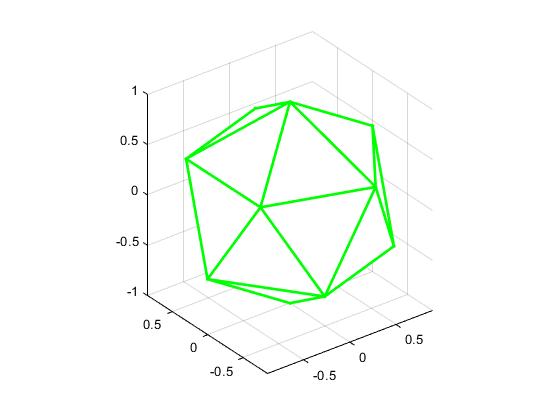
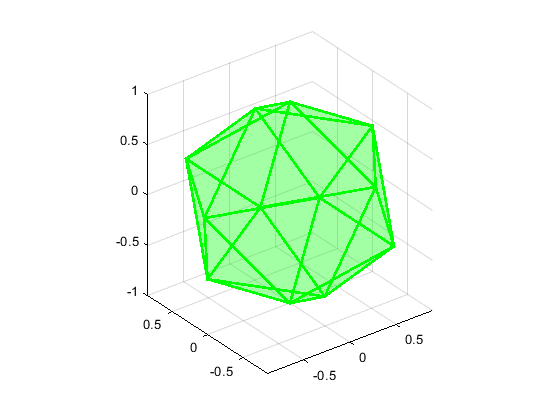
+ FaceAlpha

diff --git a/html/doc.html b/html/doc.html
@@ -6,7 +6,7 @@
    <!--
 This HTML was auto-generated from MATLAB code.
 To make changes, update the MATLAB code and republish this document.
-      --><title>geoid</title><meta name="generator" content="MATLAB 9.7"><link rel="schema.DC" href="http://purl.org/dc/elements/1.1/"><meta name="DC.date" content="2021-01-28"><meta name="DC.source" content="doc.m"><style type="text/css">
+      --><title>geoid</title><meta name="generator" content="MATLAB 9.7"><link rel="schema.DC" href="http://purl.org/dc/elements/1.1/"><meta name="DC.date" content="2024-04-09"><meta name="DC.source" content="doc.m"><style type="text/css">
 html,body,div,span,applet,object,iframe,h1,h2,h3,h4,h5,h6,p,blockquote,pre,a,abbr,acronym,address,big,cite,code,del,dfn,em,font,img,ins,kbd,q,s,samp,small,strike,strong,sub,sup,tt,var,b,u,i,center,dl,dt,dd,ol,ul,li,fieldset,form,label,legend,table,caption,tbody,tfoot,thead,tr,th,td{margin:0;padding:0;border:0;outline:0;font-size:100%;vertical-align:baseline;background:transparent}body{line-height:1}ol,ul{list-style:none}blockquote,q{quotes:none}blockquote:before,blockquote:after,q:before,q:after{content:'';content:none}:focus{outine:0}ins{text-decoration:none}del{text-decoration:line-through}table{border-collapse:collapse;border-spacing:0}
 
 html { min-height:100%; margin-bottom:1px; }
@@ -66,7 +66,7 @@ table td { padding:7px 5px; text-align:left; vertical-align:top; border:1px soli
 
 
 
-  </style></head><body><div class="content"><h1>geoid</h1><!--introduction--><p>Function to generate a n-level geoid shape, defined by its vertices set and the corresponding triangulation. Vertices belong to the unit sphere.</p><p>Algorithm principle is based on sampling the 20 icosahedron triangles.</p><p>Author &amp; support : nicolas.douillet (at) free.fr, 2017-2021.</p><!--/introduction--><h2>Contents</h2><div><ul><li><a href="#1">Syntax</a></li><li><a href="#2">Description</a></li><li><a href="#3">See also</a></li><li><a href="#4">Input arguments</a></li><li><a href="#5">Output arguments</a></li><li><a href="#6">Example #1</a></li><li><a href="#7">Example #2</a></li></ul></div><h2 id="1">Syntax</h2><p>[V, T] = geoid(n)</p><p>[V, T] = geoid(n, option_display)</p><h2 id="2">Description</h2><p>[V, T] = geoid(n) computes n-level geoid vertices coordinates V and its corresponding triangulation T.</p><p>[V, T] = geoid(n, option_display) display the resulting geoid if the boolean option_display is either logical or numeric true.</p><h2 id="3">See also</h2><p><a href="https://fr.mathworks.com/matlabcentral/fileexchange/64284-sphere-homeomorphic-surface-quasi-isotropic-sampling?s_tid=prof_contriblnk">sphere_homeo_sfc_isotropic_splg</a> | <a href="https://fr.mathworks.com/help/matlab/ref/sphere.html?s_tid=srchtitle">sphere</a> | <a href="https://fr.mathworks.com/matlabcentral/fileexchange/64395-sample_triangle?s_tid=prof_contriblnk">sample_triangle</a></p><h2 id="4">Input arguments</h2><p>- n : positive integer scalar double (n &gt; 0), the level which corresponds to the       number of steps to sample the initial triangles in.</p><p>- option_display : logical *true (1) / false (0).</p><h2 id="5">Output arguments</h2><pre>      [ |  |  |]
+  </style></head><body><div class="content"><h1>geoid</h1><!--introduction--><p>Function to generate a n-level geoid shape, defined by its vertices set and the corresponding triangulation. Vertices belong to the unit sphere.</p><p>Algorithm principle is based on sampling the 20 icosahedron triangles.</p><p>Author : nicolas.douillet (at) free.fr, 2017-2024.</p><!--/introduction--><h2>Contents</h2><div><ul><li><a href="#1">Syntax</a></li><li><a href="#2">Description</a></li><li><a href="#3">See also</a></li><li><a href="#4">Input arguments</a></li><li><a href="#5">Output arguments</a></li><li><a href="#6">Example #1</a></li><li><a href="#7">Example #2</a></li></ul></div><h2 id="1">Syntax</h2><p>[V, T] = geoid(n)</p><p>[V, T] = geoid(n, option_display)</p><h2 id="2">Description</h2><p>[V, T] = geoid(n) computes n-level geoid vertices coordinates V and its corresponding triangulation T.</p><p>[V, T] = geoid(n, option_display) display the resulting geoid if the boolean option_display is either logical or numeric true.</p><h2 id="3">See also</h2><p><a href="https://fr.mathworks.com/matlabcentral/fileexchange/77446-platonic-solids?s_tid=prof_contriblnk">platonic_solids</a> | <a href="https://fr.mathworks.com/matlabcentral/fileexchange/65574-tetrahedron-circumsphere?s_tid=prof_contriblnk">tetrahedron_circumsphere</a> | <a href="https://fr.mathworks.com/matlabcentral/fileexchange/121133-tetrahedron-insphere?s_tid=prof_contriblnk">tetrahedron_insphere</a> | <a href="https://fr.mathworks.com/matlabcentral/fileexchange/64395-sample-triangle-2d-3d-nd?s_tid=ta_fx_results">sample_triangle</a></p><h2 id="4">Input arguments</h2><p>- n : positive integer scalar double (n &gt; 0), the level which corresponds to the       number of steps to sample the initial triangles in.</p><p>- option_display : logical *true (1) / false (0).</p><h2 id="5">Output arguments</h2><pre>      [ |  |  |]
 - V = [Vx Vy Vz], real matrix double, the geoid vertices X, Y, Z coordinates. Size(V) = [nb_vertices,3], with nb_vertices &lt; (20*(n+1)*(n+2)/2.
       [ |  |  |]</pre><pre>      [ |  |  |]
 - T = [i0 i1 i2], positive integer matrix double, the triangulation. Size(T) = [nb_triangles,3], with nb_triangles &lt; 20*n^2.
@@ -85,7 +85,7 @@ option_display = true;
 %
 % Algorithm principle is based on sampling the 20 icosahedron triangles.
 %
-% Author & support : nicolas.douillet (at) free.fr, 2017-2021.
+% Author : nicolas.douillet (at) free.fr, 2017-2024.
 %
 %% Syntax
 % [V, T] = geoid(n)
@@ -101,9 +101,10 @@ option_display = true;
 %
 %% See also 
 %
-% <https://fr.mathworks.com/matlabcentral/fileexchange/64284-sphere-homeomorphic-surface-quasi-isotropic-sampling?s_tid=prof_contriblnk sphere_homeo_sfc_isotropic_splg> |
-% <https://fr.mathworks.com/help/matlab/ref/sphere.html?s_tid=srchtitle sphere> |
-% <https://fr.mathworks.com/matlabcentral/fileexchange/64395-sample_triangle?s_tid=prof_contriblnk sample_triangle>
+% <https://fr.mathworks.com/matlabcentral/fileexchange/77446-platonic-solids?s_tid=prof_contriblnk platonic_solids> |
+% <https://fr.mathworks.com/matlabcentral/fileexchange/65574-tetrahedron-circumsphere?s_tid=prof_contriblnk tetrahedron_circumsphere> |
+% <https://fr.mathworks.com/matlabcentral/fileexchange/121133-tetrahedron-insphere?s_tid=prof_contriblnk tetrahedron_insphere> |
+% <https://fr.mathworks.com/matlabcentral/fileexchange/64395-sample-triangle-2d-3d-nd?s_tid=ta_fx_results sample_triangle>
 %
 %% Input arguments
 %

diff --git a/geoid.m b/geoid.m
@@ -1,9 +1,9 @@
 function [V, T] = geoid(n, option_display)
-%% geoid : function to generate a n-level geoid shape, defined by its
+% geoid : function to generate a n-level geoid shape, defined by its
 % vertices set and the corresponding triangulation. Vertices belong to the unit sphere.
 % Algorithm principle is based on sampling the 20 triangles of the icosahedron.
 %
-% Author & support : nicolas.douillet (at) free.fr, 2017-2021.
+% Author : nicolas.douillet (at) free.fr, 2017-2024.
 %
 %
 % Syntax
@@ -57,7 +57,7 @@ function [V, T] = geoid(n, option_display)
 % [V, T] = geoid(n, option_display);
 
 
-%% Input parsing
+% Input parsing
 if nargin < 2
     option_display = true;
 end
@@ -67,7 +67,7 @@ assert(nargin < 3,'Error : too many input arguments.');
 assert(isreal(n) && n >= 1 && rem(n,1) == 0,'Error : level must be a stricly positive integer.');
 
 
-%% Body
+% Body
 % Step I : build icosahedron
 Rho = 1;
 phi_n = 0.5*(1+sqrt(5));
@@ -193,9 +193,9 @@ if option_display
     figure;
     set(gcf, 'Color', [0 0 0]);
     TRI = triangulation(T, V(:,1), V(:,2), V(:,3));
-    t = trimesh(TRI);
+    t = trimesh(TRI, 'FaceAlpha',0.2);
     colormap([0 1 0]);
-    t.FaceColor = [0 0 0];
+    t.FaceColor = [0 1 0];
     t.LineWidth = 2;
     set(gca, 'Color', [0 0 0], 'XColor', [1 1 1], 'YColor', [1 1 1], 'ZColor', [1 1 1]);
     axis equal;
@@ -205,7 +205,7 @@ end
 end % geoid
 
 
-%% sample_triangle subfunction
+% sample_triangle subfunction
 function [V, T] = sample_triangle(V1, V2, V3, nbstep)
 
 
@@ -298,7 +298,7 @@ T = unique(T,'rows','stable');
 end % sample_triangle
 
 
-%% Remove duplicated vertices subfunction
+% Remove duplicated vertices subfunction
 function [V_out, T_out] = remove_duplicated_vertices(V_in, T_in)
 
 

diff --git a/doc.m b/doc.m
@@ -5,7 +5,7 @@
 %
 % Algorithm principle is based on sampling the 20 icosahedron triangles.
 %
-% Author & support : nicolas.douillet (at) free.fr, 2017-2021.
+% Author : nicolas.douillet (at) free.fr, 2017-2024.
 %
 %% Syntax
 % [V, T] = geoid(n)
@@ -21,9 +21,10 @@
 %
 %% See also 
 %
-% <https://fr.mathworks.com/matlabcentral/fileexchange/64284-sphere-homeomorphic-surface-quasi-isotropic-sampling?s_tid=prof_contriblnk sphere_homeo_sfc_isotropic_splg> |
-% <https://fr.mathworks.com/help/matlab/ref/sphere.html?s_tid=srchtitle sphere> |
-% <https://fr.mathworks.com/matlabcentral/fileexchange/64395-sample_triangle?s_tid=prof_contriblnk sample_triangle>
+% <https://fr.mathworks.com/matlabcentral/fileexchange/77446-platonic-solids?s_tid=prof_contriblnk platonic_solids> |
+% <https://fr.mathworks.com/matlabcentral/fileexchange/65574-tetrahedron-circumsphere?s_tid=prof_contriblnk tetrahedron_circumsphere> |
+% <https://fr.mathworks.com/matlabcentral/fileexchange/121133-tetrahedron-insphere?s_tid=prof_contriblnk tetrahedron_insphere> |
+% <https://fr.mathworks.com/matlabcentral/fileexchange/64395-sample-triangle-2d-3d-nd?s_tid=ta_fx_results sample_triangle>
 %
 %% Input arguments
 %
